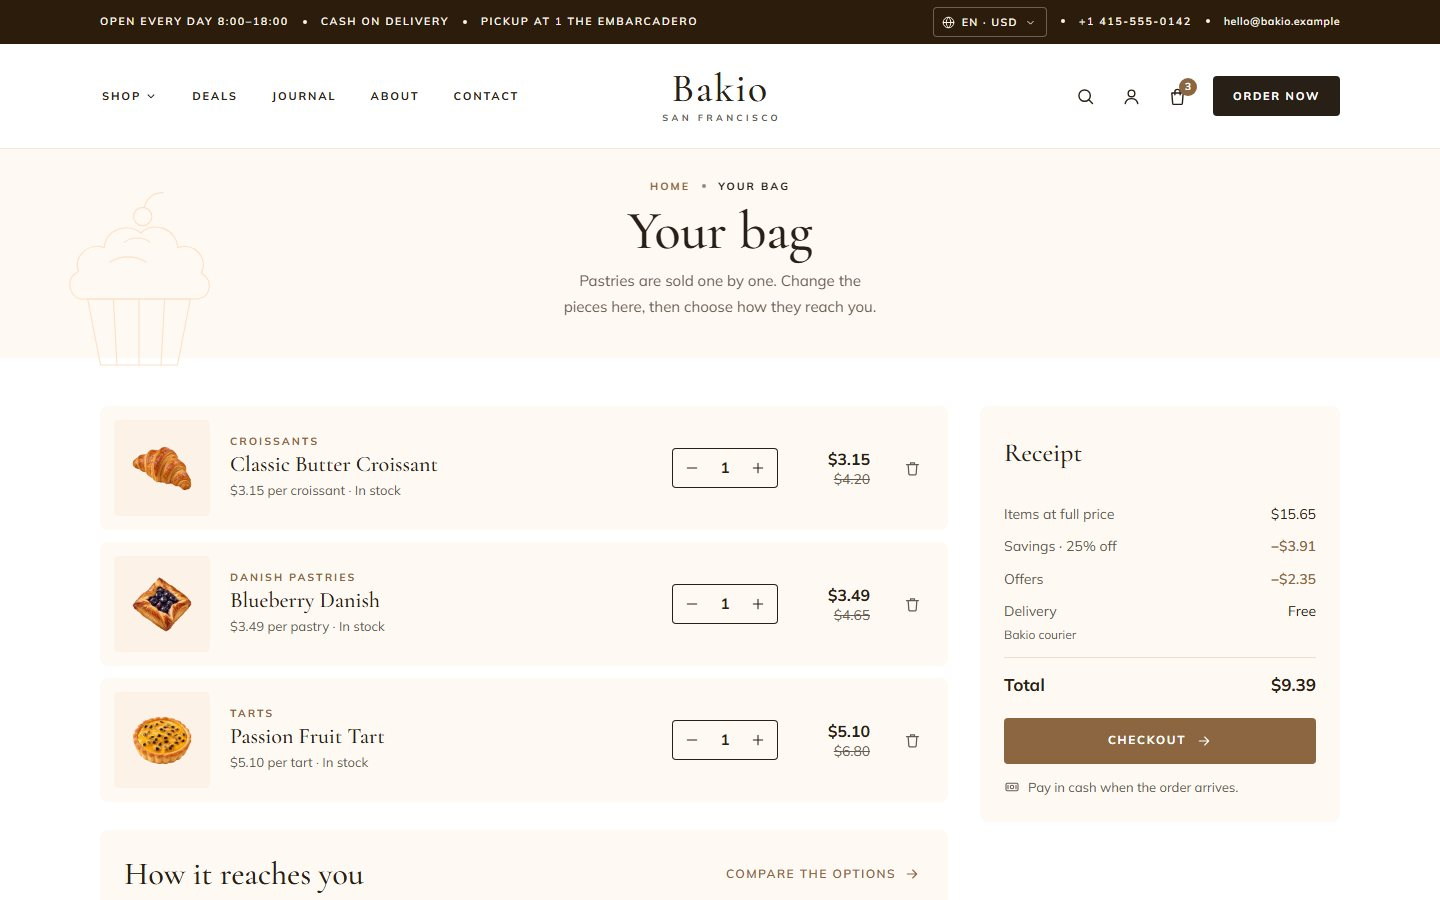
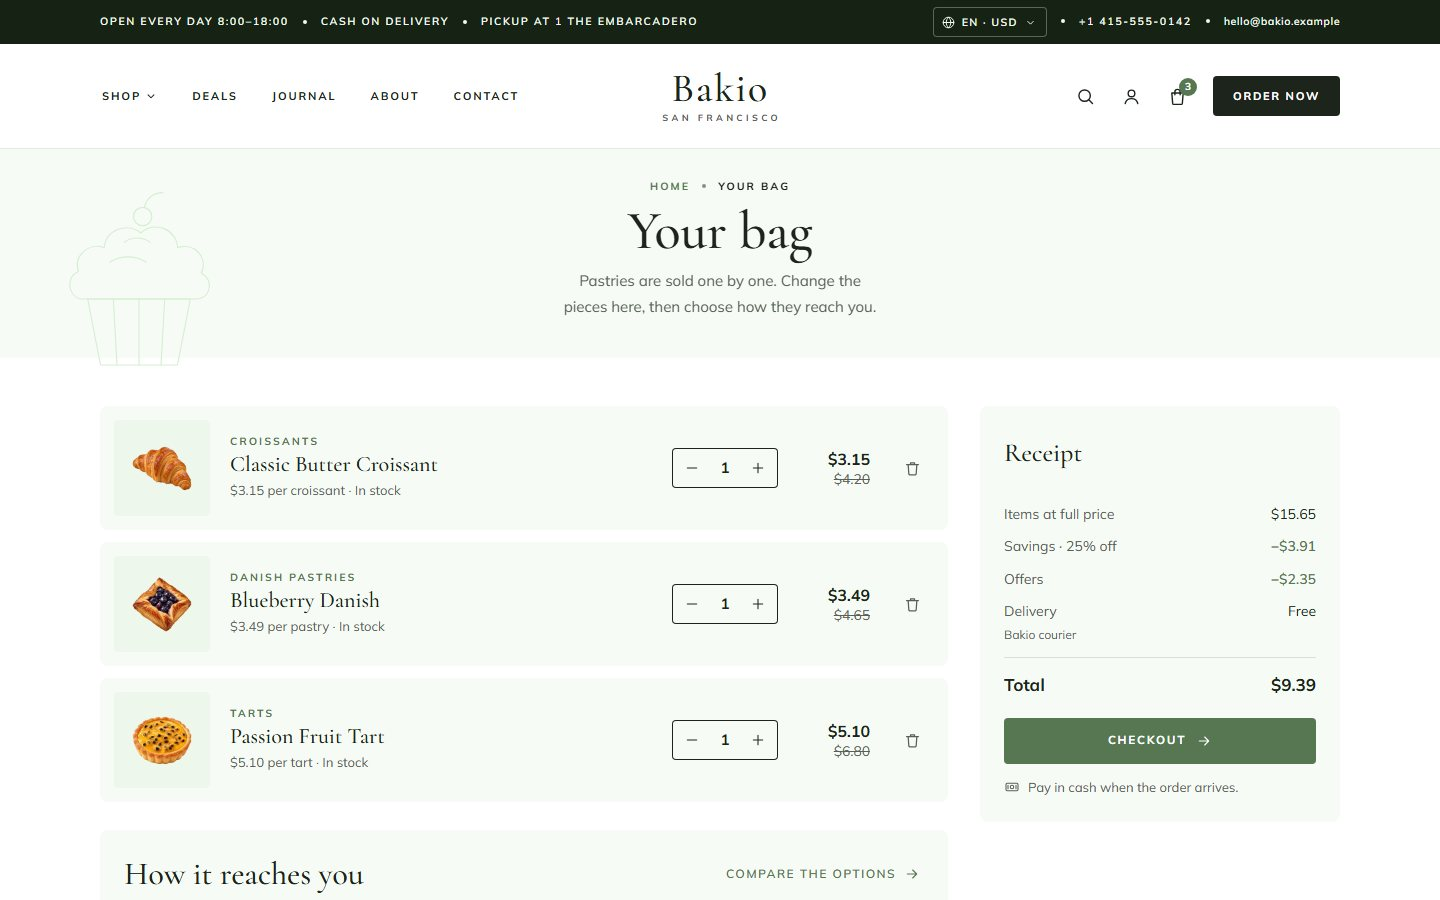
Pralino 1.0.12: sage is the default palette (the owner's choice; Domino is the brown one), comparison columns never under 244 px with sideways scroll and sticky labels, sticky group headings; README, gallery card and screenshots retaken from live 1.0.12 in sage. Layout 42, deploy 686

Changed region(s): [[0.6875, 0.7778, 0.9375, 0.8711], [0.8125, 0.0933, 0.8438, 0.1244]]

diff --git a/style/pralino/pages.css b/style/pralino/pages.css
@@ -548,9 +548,22 @@ html.pr-dark .tri.photo:is(.pr,.pr *) img { filter: brightness(.84) saturate(.95
 .cmp-s:is(.pr,.pr *) { padding-top: 26px; }
 .cmp-bar:is(.pr,.pr *) { display: flex; align-items: center; justify-content: space-between; flex-wrap: wrap; gap: 12px 20px; margin-bottom: 18px; }
 .cmp-sw:is(.pr,.pr *) { display: flex; align-items: center; gap: 12px; font-weight: 600; font-size: 14.5px; }
-.cmp-row:is(.pr,.pr *) { display: grid; grid-template-columns: 200px repeat(var(--pr-n), minmax(0, 1fr)); gap: 0 14px; }
+/* A product column is never narrower than 244 px, so its running text (the "why" lines) stays at least 240 px wide
+   (text-column rule); the label column gives way first (200 → 140 px). When four still don't fit (a 1024 px window),
+   the heads and the rows scroll sideways together and the labels stay put. */
+.cmp-row:is(.pr,.pr *) { --pr-lab: 200px; --pr-lab-min: 140px; display: grid; grid-template-columns: minmax(var(--pr-lab-min), var(--pr-lab)) repeat(var(--pr-n), minmax(244px, 1fr)); gap: 0 14px; min-width: calc(var(--pr-lab-min) + var(--pr-n) * (244px + 14px)); }
+.cmp-heads:is(.pr,.pr *), .cmp-body:is(.pr,.pr *) { overflow-x: auto; scrollbar-width: none; }
+.cmp-heads:is(.pr,.pr *)::-webkit-scrollbar, .cmp-body:is(.pr,.pr *)::-webkit-scrollbar { display: none; }
+/* while the table is scrolled, the labels cover the column gap too (the text sliding under them never shows beside a
+   label) and each group's heading stays at the start */
+.cmp-row:is(.pr,.pr *) > .cl.lab { position: sticky; inset-inline-start: 0; z-index: 1; background: var(--pr-bg); box-shadow: 14px 0 0 var(--pr-bg); }
+.cmp-row:is(.pr,.pr *) > .cl.lab:dir(rtl) { box-shadow: -14px 0 0 var(--pr-bg); }
+/* a label as tall as its row, so a long value scrolled under it never shows below a one-line label */
+.cmp-body:is(.pr,.pr *) .cmp-row > .cl.lab { align-self: stretch; align-items: flex-start; }
+.cmp-body:is(.pr,.pr *) .cl.lab .dot { margin-top: calc((1.5em - 8px) / 2); }
+.cmp-gh:is(.pr,.pr *) { position: sticky; inset-inline-start: 0; width: max-content; max-width: 100%; }
 .cmp-heads:is(.pr,.pr *) { position: sticky; top: var(--pr-hdr-h); z-index: 6; background: var(--pr-bg); padding-block: 12px; }
-.cmp-row.hd:is(.pr,.pr *) { grid-template-columns: 200px repeat(var(--pr-n), minmax(0, 1fr)); align-items: stretch; }
+.cmp-row.hd:is(.pr,.pr *) { align-items: stretch; }
 .cmp-row.hd:is(.pr,.pr *) > .cl { display: flex; }
 .cl.lab:is(.pr,.pr *) { display: flex; align-items: center; gap: 10px; font-size: 14px; color: var(--pr-muted); }
 .cmp-row.hd:is(.pr,.pr *) .cl.lab { flex-direction: column; align-items: flex-start; justify-content: flex-end; padding-bottom: 12px; }
@@ -586,9 +599,11 @@ html.pr-dark .tri.photo:is(.pr,.pr *) img { filter: brightness(.84) saturate(.95
 .all-k:is(.pr,.pr *) { color: var(--pr-muted); }
 .only-diff:is(.pr,.pr *) [data-same] { display: none; }
 .why-l:is(.pr,.pr *) { display: grid; gap: 6px; }
-.why-l:is(.pr,.pr *) li { display: grid; grid-template-columns: 18px minmax(0, 1fr); gap: 8px; align-items: start; line-height: 1.5; }
+/* the tick floats beside the first line, so the text runs the cell's full width */
+.why-l:is(.pr,.pr *) li { display: flow-root; line-height: 1.5; }
+.why-l:is(.pr,.pr *) li > span:not(.ck) { display: block; }
 .why-l:is(.pr,.pr *) b { font-weight: 600; display: block; }
-.why-l:is(.pr,.pr *) .ck { margin-top: 2px; }
+.why-l:is(.pr,.pr *) .ck { float: inline-start; margin-top: 2px; margin-inline-end: 8px; }
 .nr:is(.pr,.pr *) { display: inline-flex; align-items: center; gap: 6px; color: var(--pr-muted); }
 .nr:is(.pr,.pr *) .i { width: 16px; height: 16px; }
 .cmp-share:is(.pr,.pr *) { display: grid; grid-template-columns: 24px minmax(0, 1fr) auto; gap: 14px; align-items: center; margin-top: 40px; padding: 20px 24px; background: var(--pr-surface); border-radius: var(--pr-r-card); }
@@ -622,7 +637,7 @@ select.inp:is(.pr,.pr *) { -webkit-appearance: none; appearance: none; backgroun
   .bt-sum:is(.pr,.pr *) { grid-column: 1 / -1; flex-direction: row; flex-wrap: wrap; align-items: center; gap: 6px 18px; }
   .bt-sum:is(.pr,.pr *) .btn { margin-inline-start: auto; }
   .bt-sv:is(.pr,.pr *) { margin: 0; }
-  .cmp-row:is(.pr,.pr *), .cmp-row.hd:is(.pr,.pr *) { grid-template-columns: 150px repeat(var(--pr-n), minmax(0, 1fr)); }
+  .cmp-row:is(.pr,.pr *) { --pr-lab: 150px; --pr-lab-min: 120px; }
 }
 @media (max-width: 979px) {
   .pd-in:is(.pr,.pr *) { grid-template-columns: 1fr; }
@@ -635,7 +650,7 @@ select.inp:is(.pr,.pr *) { -webkit-appearance: none; appearance: none; backgroun
   /* compare: heads and rows scroll sideways together, labels ride along */
   .cmp-heads:is(.pr,.pr *), .cmp-body:is(.pr,.pr *) { overflow-x: auto; scrollbar-width: none; margin-inline: calc(var(--pr-gut) * -1); padding-inline: var(--pr-gut); }
   .cmp-heads:is(.pr,.pr *)::-webkit-scrollbar, .cmp-body:is(.pr,.pr *)::-webkit-scrollbar { display: none; }
-  .cmp-row:is(.pr,.pr *), .cmp-row.hd:is(.pr,.pr *) { grid-template-columns: repeat(var(--pr-n), 168px); width: max-content; }
+  .cmp-row:is(.pr,.pr *), .cmp-row.hd:is(.pr,.pr *) { grid-template-columns: repeat(var(--pr-n), 168px); width: max-content; min-width: 0; }
   .cmp-row:is(.pr,.pr *) > .cl.lab { grid-column: 1 / -1; position: sticky; inset-inline-start: 0; width: max-content; max-width: calc(100vw - 2 * var(--pr-gut)); }
   .cmp-row.hd:is(.pr,.pr *) > .cl.lab { display: none; }
   .cmp-body:is(.pr,.pr *) .cmp-row { row-gap: 6px; }

diff --git a/components/pralino/pralino-theme.settings.ts b/components/pralino/pralino-theme.settings.ts
@@ -5,7 +5,7 @@
  * shop that does not show the visitor switcher (see themeSwitcher) they are the only theme. After a
  * change: build and upload (bash scripts/release.sh <new-version> desk), see AGENTS.md "Theme".
  *
- * palette        one of: "tan" (the brand, the default), "rose", "sage", "slate", "ink"
+ * palette        one of: "sage" (the default), "tan", "rose", "slate", "ink"
  * brandColor     any colour, "#RRGGBB"; when set it replaces `palette` (the whole page — bands, plates,
  *                lines, words, the dark bars — takes this colour's family, and its buttons and links are
  *                made readable automatically, in light and dark)
@@ -18,7 +18,7 @@
 import type { ThemeSettings } from "../theme-switcher/theme-switcher";
 
 export const THEME_SETTINGS: ThemeSettings = {
-  palette: "tan",
+  palette: "sage", // the owner (16 Nov 2026): green, so Pralino differs from Domino's brown
   // brandColor: "#F5C400",
   mode: "light",
   themeSwitcher: "showcase",

diff --git a/PRALINO.md b/PRALINO.md
@@ -88,5 +88,11 @@ Uploads: `bash "../new-shop-kits/upload-guard.sh" env LAYOUT_ID=42 SELLDONE_CLI_
 
 | Version | Date | Layout | Deploy | What |
 | --- | --- | --- | --- | --- |
+| 1.0.12 | 16 Nov 2026 | 42 | 686 (release `01M7HHHHMHN3ETYPVX43P879KZ`) | Compare labels as tall as their row, so a long value scrolled under a one-line label never shows below it. Pinned on 1252 |
+| 1.0.11 | 16 Nov 2026 | 42 | 685 | Compare while scrolled: the sticky labels mask the column gap (`box-shadow`, mirrored for RTL), each group heading stays at the start |
+| 1.0.10 | 16 Nov 2026 | 42 | 683 | **Sage is the default palette** (the owner: green, so Pralino differs from Domino's brown; Codex had already listed Pralino as official layout 13 with sage, built as 1.0.8). Carries the 1.0.9 compare fix. The domain loader turned sage too |
+| 1.0.9 | 16 Nov 2026 | 42 | 682 | Compare: a product column never under 244 px, so the "why" text stays at least 240 px wide (the fast runner found 155 px at 1024); the label column gives way 200 → 140 px, then heads and rows scroll sideways together with sticky labels; the tick floats beside the text. Tan; superseded by 1.0.10 the same morning |
+| 1.0.8 | 15 Nov 2026 | 42 | 674 | Built by Codex for Selldone's official Layouts list (sage palette). Not pinned on 1252; the official listing points at it |
+| 1.0.7 | 15 Nov 2026 | 42 | 670 | http:// visitors moved to https:// first thing (`kalio-https.ts`) |
 | 1.0.1 | 15 Nov 2026 | 42 | 665 (release `01M7FH1DAVTTJSQD9T292STEF0`) | No half-made facts on first paint ("Open 0 days a week"); one 1920 px page frame, nothing sized from the window (the zoom-out bug), the wrap growing to 1600 px; the in-app splash; a window kept from another way cleared. 283 files. Dev checks for these fixes at 0, bundle check OK, splash checks at 0; verified on the server (`extracting:false`, `error:null`, shop.js and shop.css match). The coordinator pins it |
 | 1.0.0 | 15 Nov 2026 | 42 | 664 (release `01M7F0PA2A9CJDRR8NVXB3SB76`) | First upload: every page in the A mockups on Selldone's real flows, one colour family, one shape language, Arabic mirrored. 281 files. 49 dev checks TOTAL 0; production-bundle check OK before upload; verified on the server (`extracting:false`, `error:null`, shop.js and shop.css match). Pinned on pralino.selldone.shop (domain 1252) by the coordinator |

diff --git a/AGENTS.md b/AGENTS.md
@@ -26,7 +26,7 @@ When a merchant asks for a theme ("use the rose theme", "my brand colour is #F5C
 
 | Setting | Allowed values |
 | --- | --- |
-| `palette` | `"tan"` (the brand; the default), `"rose"`, `"sage"`, `"slate"`, `"ink"` |
+| `palette` | `"sage"` (the default since 1.0.9), `"tan"` (the original brand), `"rose"`, `"slate"`, `"ink"` |
 | `brandColor` | any `"#RRGGBB"`; when set it replaces `palette` (the whole page takes this colour's family) |
 | `mode` | `"light"` (white and the soft tint; the default) or `"dark"` (the family's night) |
 | `themeSwitcher` | `"showcase"` (the visitor switcher shows only on the Layout's own showcase shop, Bakio 15740; the default), `"on"` (the merchant's visitors get the Theme row in the footer), `"off"` |
@@ -39,7 +39,7 @@ Worked examples (change only these lines; leave the rest of the file as it is):
 - **"Make it dark"**: `mode: "dark"`.
 - **"Let visitors switch themes"**: `themeSwitcher: "on"`.
 - **"Remove the switcher"**: `themeSwitcher: "off"`. On a merchant's own shop it is already hidden with `"showcase"`.
-- **"Go back to the original colours"**: remove `brandColor` and set `palette: "tan", mode: "light"`.
+- **"Go back to the original colours"**: remove `brandColor` and set `palette: "sage", mode: "light"`.
 
 The switcher itself is the shared package in `components/theme-switcher/` (the same code as every other Layout; see its PORTING.md in the kit). Pralino's palettes are in `components/pralino/pralino-theme.ts`, the family that paints every ground from the palette in `components/pralino/pralino-family.ts`, and the Tan defaults for both modes (and the shape scale: circle, 8 px panels, 4 px inner parts) in `style/pralino-theme.scss`; do not edit them for a merchant's theme.
 

diff --git a/README.md b/README.md
@@ -37,7 +37,7 @@
 - **one shape language**: circles for round things (the −% roundel, icon buttons, the mark), 8 px panels and photos, 4 px inner parts (buttons, chips, fields, plates); square only where a band meets the window's edge;
 - big photography in every section (the shop's own photos, with drawn or cut-out fallbacks), faint line drawings of pastries in the title bands;
 - flat buttons, hover changes the colour only, no line under any word or icon, selection rings inside the box;
-- light by default, with a dark mode in the same family; a **Theme** row in the footer on the showcase shop: five palettes (Tan, Rose, Sage, Slate, Ink), a **Custom colour** and Light / Dark;
+- light by default, with a dark mode in the same family; a **Theme** row in the footer on the showcase shop: five palettes (Sage by default, Tan, Rose, Slate, Ink), a **Custom colour** and Light / Dark;
 - it says **bag**, never cart; every word it writes is in English and Arabic (right to left).
 
 It runs on **[pralino.selldone.shop](https://pralino.selldone.shop)**, one domain of the Selldone shop Bakio (Selldone lets each domain of a shop carry its own Layout; the shop's default and its other domains keep theirs).
